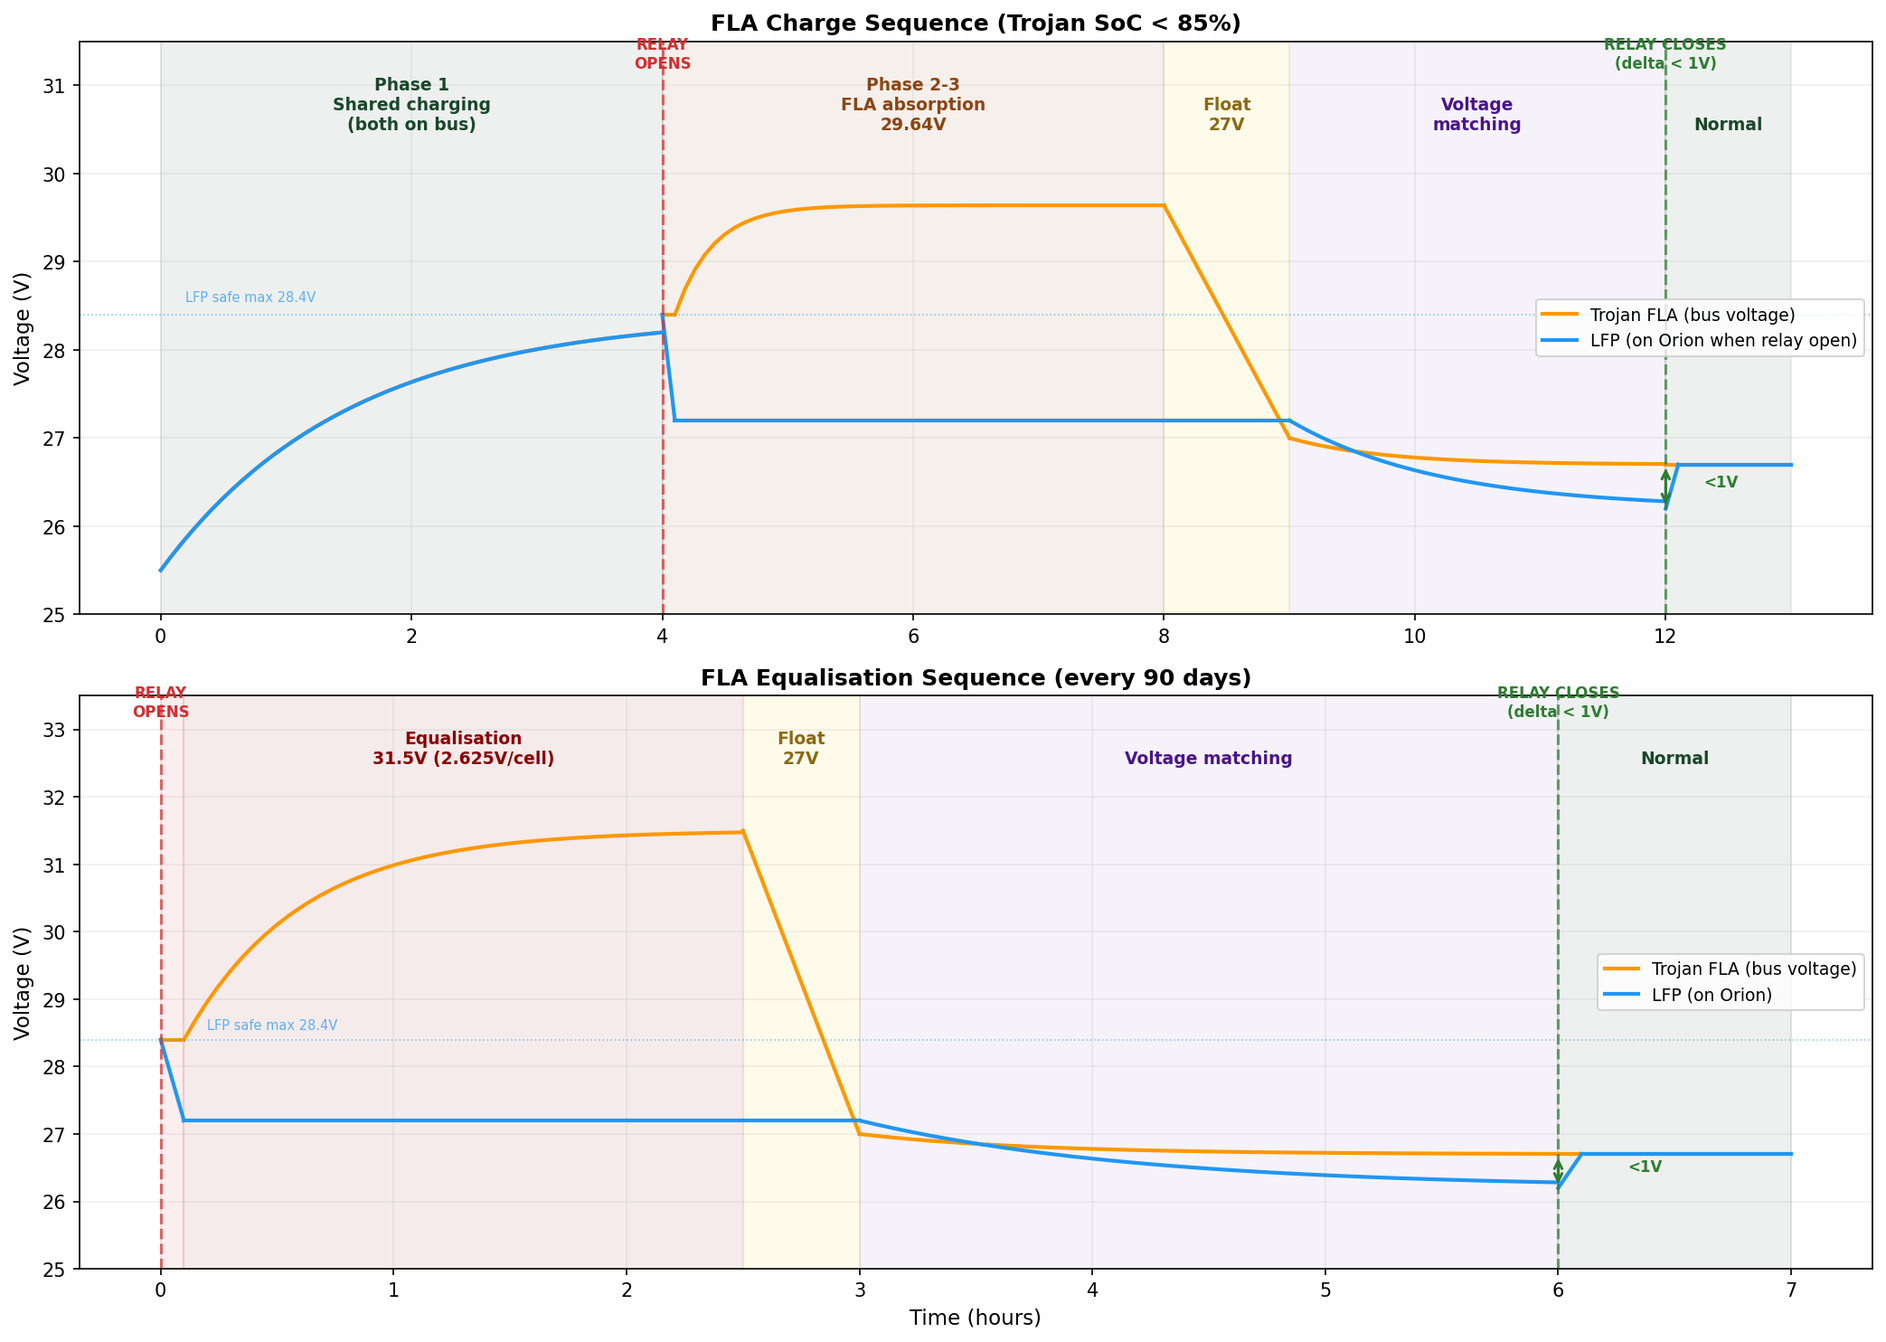
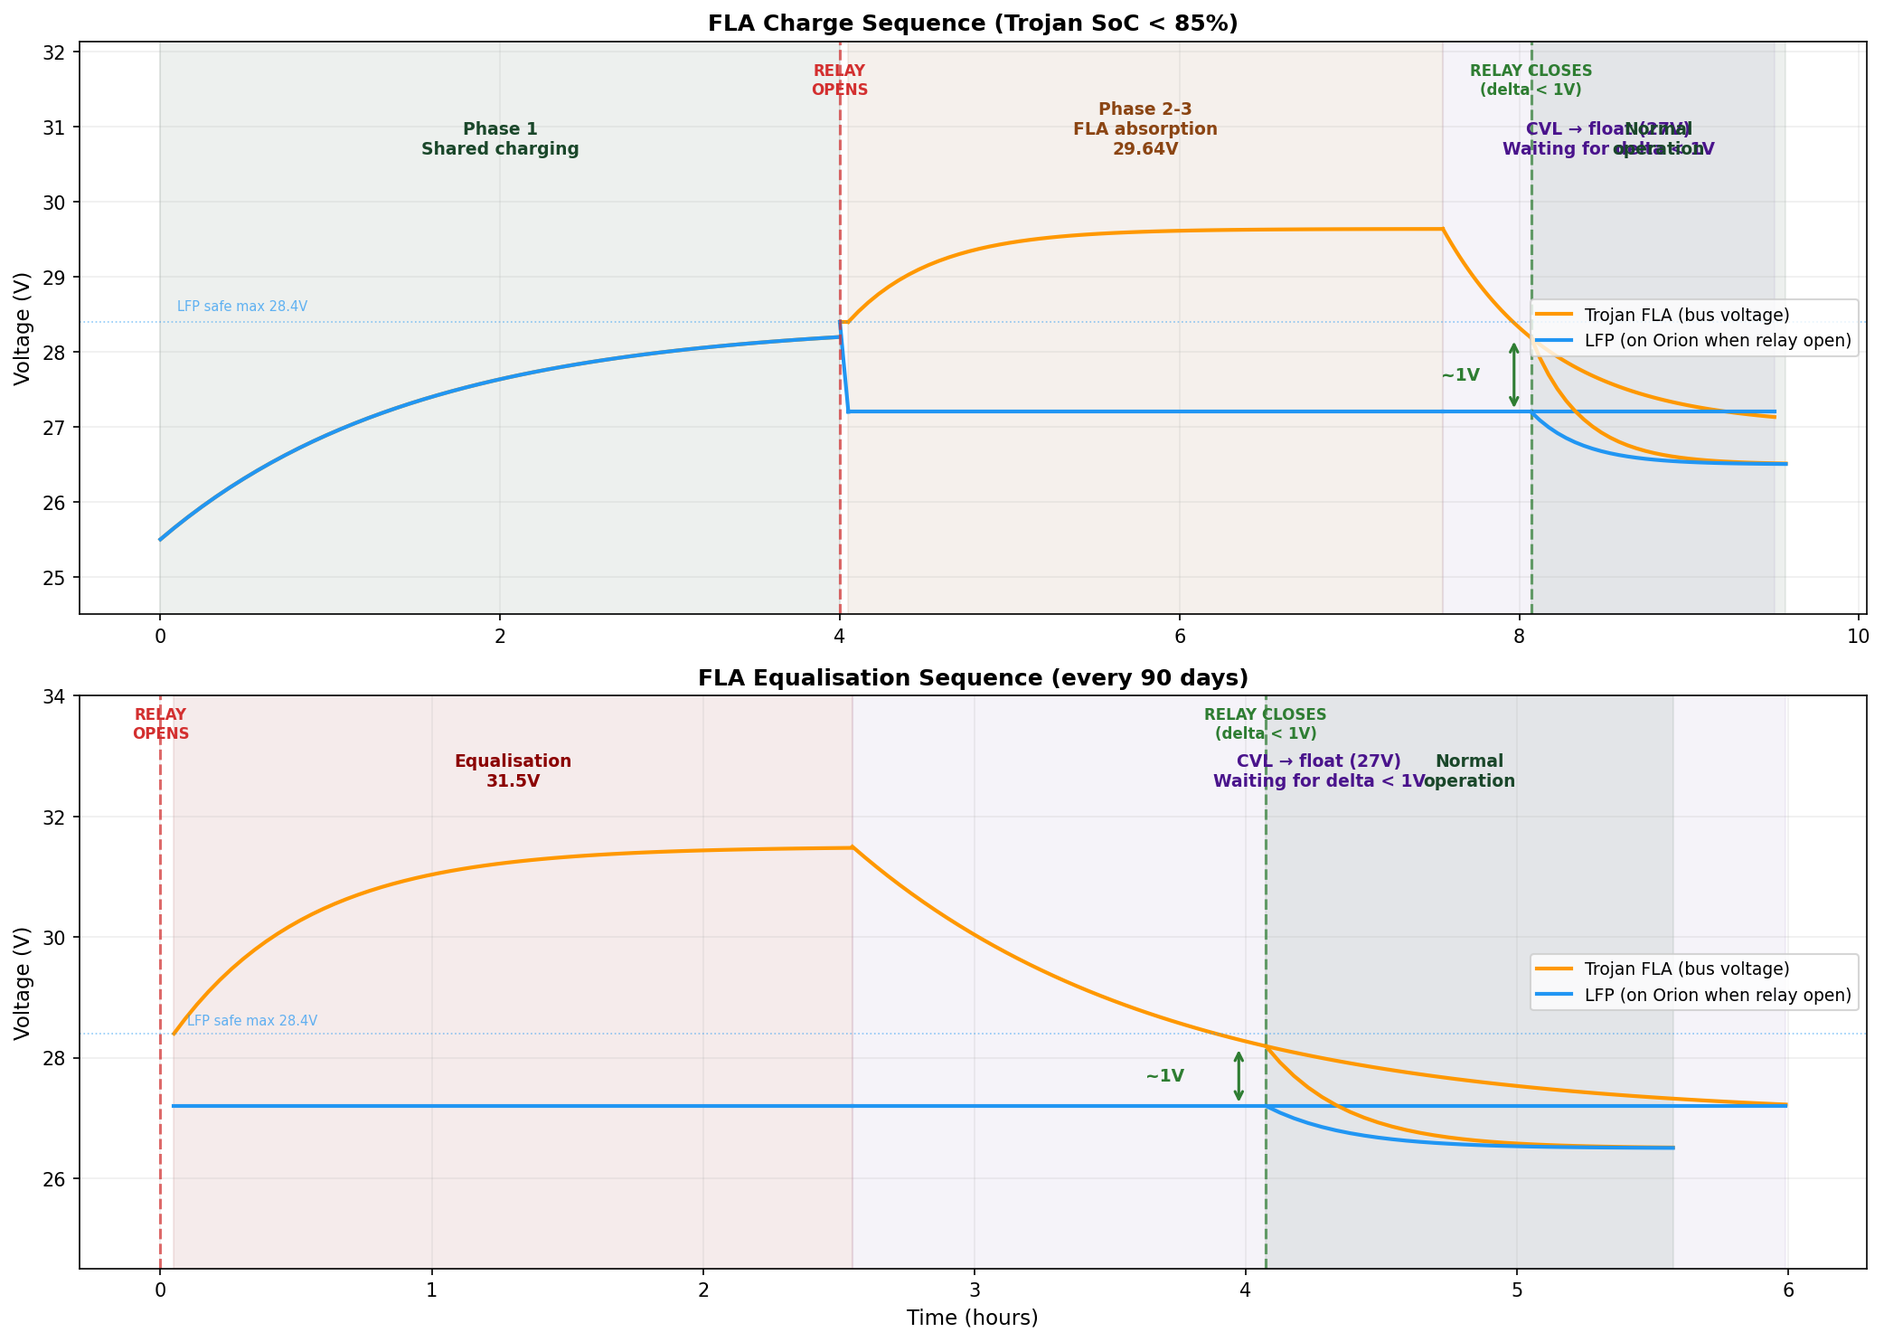
docs: fix charge sequence — float+matching is one phase, relay at delta<1V
Float reduction and voltage matching are one phase in the code
(wait_for_match sets CVL to float then checks delta every 30s).
Relay closes when Trojan drops to within 1V of LFP on its way down,
not after full convergence. LFP stays steady on Orion throughout.

diff --git a/docs/generate_diagrams.py b/docs/generate_diagrams.py
@@ -2,17 +2,15 @@
 """Generate voltage profile diagrams for the hybrid LFP+FLA system."""
 
 import matplotlib.pyplot as plt
-import matplotlib.patches as mpatches
 import numpy as np
 import os
 
 OUT_DIR = os.path.dirname(__file__)
 
 # --- Trojan L16H-AC OCV vs SoC (per cell, from Trojan SoC table) ---
-# Standard flooded lead-acid specific gravity / OCV relationship
-TROJAN_SOC =  [0,    10,   20,   30,   40,   50,   60,   70,   80,   90,   100]
+TROJAN_SOC =  [0,     10,    20,    30,    40,    50,    60,    70,    80,    90,    100]
 TROJAN_CELL = [1.895, 1.918, 1.943, 1.969, 1.993, 2.017, 2.040, 2.062, 2.083, 2.103, 2.122]
-FLA_CELLS = 12  # 4x 6V batteries, 3 cells each
+FLA_CELLS = 12
 
 # --- EVE MB31 LFP OCV vs SoC (per cell, typical LiFePO4 curve) ---
 LFP_SOC =  [0,    5,    10,   20,   30,   40,   50,   60,   70,   80,   90,   95,   100]
@@ -25,33 +23,28 @@ def voltage_profile():
 
     fig, ax = plt.subplots(figsize=(14, 9))
 
-    # Convert to pack voltages
     lfp_soc = np.array(LFP_SOC)
     lfp_pack = np.array(LFP_CELL) * LFP_CELLS
     fla_soc = np.array(TROJAN_SOC)
     fla_pack = np.array(TROJAN_CELL) * FLA_CELLS
 
-    # --- Zone backgrounds ---
-    # LFP-only discharge zone (bus voltage above FLA OCV)
+    # Zone backgrounds
     ax.axhspan(25.5, 28.4, color='#2196F3', alpha=0.06, zorder=0)
-    # FLA takeover zone (bus voltage drops to FLA OCV range)
     ax.axhspan(22.5, 25.5, color='#FF9800', alpha=0.06, zorder=0)
-    # FLA charge voltages (relay must be open)
     ax.axhspan(28.4, 32.5, color='#d32f2f', alpha=0.04, zorder=0)
 
-    # --- Plot OCV curves ---
+    # OCV curves
     ax.plot(lfp_soc, lfp_pack, color='#2196F3', linewidth=2.5, marker='o', markersize=4,
             label='LFP open-circuit voltage (8 cells)', zorder=5)
     ax.plot(fla_soc, fla_pack, color='#FF9800', linewidth=2.5, marker='s', markersize=4,
             label='FLA open-circuit voltage (12 cells, Trojan SoC table)', zorder=5)
 
-    # --- Shaded gap between curves ---
-    # Interpolate FLA to LFP SoC points for fill
+    # Shaded gap
     fla_interp = np.interp(lfp_soc, fla_soc, fla_pack)
     ax.fill_between(lfp_soc, fla_interp, lfp_pack, alpha=0.06, color='#9C27B0',
                     where=lfp_pack > fla_interp, zorder=1)
 
-    # --- Key voltage lines ---
+    # Key voltage lines
     ax.axhline(y=28.4, color='#2196F3', linestyle='--', linewidth=1.2, alpha=0.7)
     ax.annotate('LFP daily charge target  28.4V (3.55V/cell)',
                 xy=(102, 28.4), fontsize=8, color='#2196F3', va='center')
@@ -72,14 +65,12 @@ def voltage_profile():
     ax.annotate('LFP cutoff  22.4V (2.80V/cell)',
                 xy=(102, 22.4), fontsize=8, color='#2196F3', alpha=0.7, va='center')
 
-    # --- FLA 100% OCV reference ---
-    fla_100_v = TROJAN_CELL[-1] * FLA_CELLS  # 25.46V
+    fla_100_v = TROJAN_CELL[-1] * FLA_CELLS
     ax.axhline(y=fla_100_v, color='#FF9800', linestyle=':', linewidth=0.8, alpha=0.5)
     ax.annotate(f'FLA 100% OCV  {fla_100_v:.1f}V (2.122V/cell)',
                 xy=(102, fla_100_v), fontsize=8, color='#FF9800', alpha=0.8, va='center')
 
-    # --- Crossover annotation ---
-    # Find where LFP curve crosses FLA 100% OCV
+    # Crossover annotation
     lfp_fine = np.linspace(0, 100, 500)
     lfp_pack_fine = np.interp(lfp_fine, lfp_soc, lfp_pack)
     cross_idx = np.argmin(np.abs(lfp_pack_fine - fla_100_v))
@@ -92,7 +83,7 @@ def voltage_profile():
                 arrowprops=dict(arrowstyle='->', color='#e65100', lw=1.5),
                 ha='center', zorder=10)
 
-    # --- Zone labels ---
+    # Zone labels
     ax.text(60, 27.2,
             'LFP handles all cycling\nFLA stays at ~100% SoC (float charged by LFP)',
             ha='center', va='center', fontsize=10, color='#1565C0', fontweight='bold', alpha=0.7,
@@ -108,7 +99,6 @@ def voltage_profile():
             ha='center', va='center', fontsize=10, color='#c62828', fontweight='bold', alpha=0.6,
             bbox=dict(boxstyle='round,pad=0.3', facecolor='white', alpha=0.8, edgecolor='none'))
 
-    # --- Formatting ---
     ax.set_xlim(-2, 140)
     ax.set_ylim(21.5, 32.5)
     ax.set_xlabel('State of Charge (%)', fontsize=11)
@@ -126,152 +116,143 @@ def voltage_profile():
     print(f'Saved: {path}')
 
 
+def _plot_sequence(ax, title, high_voltage, high_label,
+                   t_charge_end, t_relay_open=0):
+    """Plot a charge/EQ sequence on a single axes.
+
+    The float reduction + voltage matching is ONE phase in the code:
+    wait_for_match() sets CVL to float, then checks delta every 30s.
+    Relay closes the moment delta < 1V as Trojan drops from high voltage.
+    """
+    orion_v = 27.2  # Orion holds LFP at ~27.2V
+    float_v = 27.0
+    settle_v = 26.5  # Resting voltage after reconnect
+
+    # How long for Trojan to drop from high voltage to within 1V of LFP?
+    # Bigger drop = longer. Rough model: exponential decay.
+    drop_needed = high_voltage - (orion_v + 1.0)  # Drop until delta < 1V
+    # Time for Trojan to cross the 1V threshold (relative to float start)
+    match_time = 0.8 * (high_voltage - orion_v)  # ~2h for absorption, ~3.5h for EQ
+
+    t_total = t_relay_open + t_charge_end + match_time + 1.5  # +1.5h for settle after reconnect
+
+    # --- Charging phase (relay already open) ---
+    if t_relay_open > 0:
+        # Phase 1: shared charging (charge service only)
+        t_p1 = np.linspace(0, t_relay_open, 50)
+        v_bus_p1 = 25.5 + (28.4 - 25.5) * (1 - np.exp(-t_p1 / 1.5))
+        ax.plot(t_p1, v_bus_p1, color='#FF9800', linewidth=2)
+        ax.plot(t_p1, v_bus_p1, color='#2196F3', linewidth=2)  # Same — both on bus
+        ax.axvspan(0, t_relay_open, color='#1a472a', alpha=0.08)
+        ax.text(t_relay_open / 2, high_voltage + 1.0, 'Phase 1\nShared charging',
+                ha='center', fontsize=9, color='#1a472a', fontweight='bold')
+        # Disconnect
+        ax.plot([t_relay_open, t_relay_open + 0.05], [28.4, 28.4], color='#FF9800', linewidth=2)
+        ax.plot([t_relay_open, t_relay_open + 0.05], [28.4, orion_v], color='#2196F3', linewidth=2)
+
+    t_charge_start = t_relay_open + 0.05
+    t_charge_abs = t_charge_start + t_charge_end
+
+    # --- High-voltage charging (absorption or EQ) ---
+    t_hv = np.linspace(t_charge_start, t_charge_abs, 60)
+    v_trojan_hv = 28.4 + (high_voltage - 28.4) * (1 - np.exp(-(t_hv - t_charge_start) / 0.5))
+    v_lfp_hv = orion_v * np.ones(60)
+
+    ax.plot(t_hv, v_trojan_hv, color='#FF9800', linewidth=2)
+    ax.plot(t_hv, v_lfp_hv, color='#2196F3', linewidth=2)
+    ax.axvspan(t_charge_start, t_charge_abs, color='#8B0000' if high_voltage > 30 else '#8B4513',
+               alpha=0.08)
+    ax.text((t_charge_start + t_charge_abs) / 2, high_voltage + 1.0,
+            f'{high_label}\n{high_voltage}V',
+            ha='center', fontsize=9,
+            color='#8B0000' if high_voltage > 30 else '#8B4513', fontweight='bold')
+
+    # --- Float + voltage matching (ONE phase in code) ---
+    # CVL drops to float, Trojan voltage decays from high_voltage toward float
+    # Relay closes when Trojan drops to within 1V of LFP (orion_v)
+    t_match = np.linspace(t_charge_abs, t_charge_abs + match_time, 80)
+    # Trojan: exponential decay from high_voltage toward float_v
+    tau = match_time / 3  # Time constant
+    v_trojan_match = float_v + (high_voltage - float_v) * np.exp(-(t_match - t_charge_abs) / tau)
+    v_lfp_match = orion_v * np.ones(80)
+
+    ax.plot(t_match, v_trojan_match, color='#FF9800', linewidth=2)
+    ax.plot(t_match, v_lfp_match, color='#2196F3', linewidth=2)
+    ax.axvspan(t_charge_abs, t_charge_abs + match_time, color='#4a148c', alpha=0.05)
+    ax.text((t_charge_abs + t_charge_abs + match_time) / 2, high_voltage + 1.0,
+            'CVL → float (27V)\nWaiting for delta < 1V',
+            ha='center', fontsize=9, color='#4a148c', fontweight='bold')
+
+    # Find where Trojan crosses orion_v + 1.0 (delta = 1V threshold)
+    threshold = orion_v + 1.0  # 28.2V
+    cross_idx = np.argmin(np.abs(v_trojan_match - threshold))
+    t_cross = t_match[cross_idx]
+    v_cross = v_trojan_match[cross_idx]
+
+    # --- Relay closes at delta < 1V ---
+    t_reconnect = t_cross
+    ax.axvline(x=t_reconnect, color='#2e7d32', linestyle='--', linewidth=1.5, alpha=0.7)
+    ax.text(t_reconnect, high_voltage + 1.8, 'RELAY CLOSES\n(delta < 1V)',
+            ha='center', fontsize=8, color='#2e7d32', fontweight='bold')
+
+    # Delta annotation at reconnect point
+    ax.annotate('', xy=(t_reconnect - 0.1, v_cross),
+                xytext=(t_reconnect - 0.1, orion_v),
+                arrowprops=dict(arrowstyle='<->', color='#2e7d32', lw=1.5))
+    ax.text(t_reconnect - 0.3, (v_cross + orion_v) / 2, '~1V',
+            fontsize=9, color='#2e7d32', fontweight='bold', ha='right', va='center')
+
+    # After reconnect: both settle to same resting voltage
+    t_settle = np.linspace(t_reconnect, t_reconnect + 1.5, 30)
+    v_trojan_settle = v_cross + (settle_v - v_cross) * (1 - np.exp(-(t_settle - t_reconnect) / 0.3))
+    v_lfp_settle = orion_v + (settle_v - orion_v) * (1 - np.exp(-(t_settle - t_reconnect) / 0.3))
+
+    ax.plot(t_settle, v_trojan_settle, color='#FF9800', linewidth=2)
+    ax.plot(t_settle, v_lfp_settle, color='#2196F3', linewidth=2)
+    ax.axvspan(t_reconnect, t_reconnect + 1.5, color='#1a472a', alpha=0.08)
+    ax.text(t_reconnect + 0.75, high_voltage + 1.0, 'Normal\noperation',
+            ha='center', fontsize=9, color='#1a472a', fontweight='bold')
+
+    # Relay open marker
+    ax.axvline(x=t_relay_open, color='#d32f2f', linestyle='--', linewidth=1.5, alpha=0.7)
+    ax.text(t_relay_open, high_voltage + 1.8, 'RELAY\nOPENS',
+            ha='center', fontsize=8, color='#d32f2f', fontweight='bold')
+
+    # LFP safe line
+    ax.axhline(y=28.4, color='#2196F3', linestyle=':', linewidth=0.8, alpha=0.5)
+    ax.annotate('LFP safe max 28.4V', xy=(0.1, 28.55), fontsize=7, color='#2196F3', alpha=0.7)
+
+    # Legend
+    ax.plot([], [], color='#FF9800', linewidth=2, label='Trojan FLA (bus voltage)')
+    ax.plot([], [], color='#2196F3', linewidth=2, label='LFP (on Orion when relay open)')
+
+    ax.set_ylabel('Voltage (V)', fontsize=11)
+    ax.set_ylim(24.5, high_voltage + 2.5)
+    ax.set_title(title, fontsize=12, fontweight='bold')
+    ax.legend(loc='center right', fontsize=9)
+    ax.grid(True, alpha=0.2)
+
+
 def charge_sequence():
-    """Diagram: FLA charge/EQ sequence showing voltage over time."""
+    """Diagram: FLA charge and EQ sequences showing voltage over time."""
 
-    fig, (ax1, ax2) = plt.subplots(2, 1, figsize=(14, 10), sharex=False)
+    fig, (ax1, ax2) = plt.subplots(2, 1, figsize=(14, 10))
 
-    # --- FLA Charge Sequence (top) ---
-    t_phase1 = np.linspace(0, 4, 50)
-    t_disconnect = np.array([4, 4.1])
-    t_phase23 = np.linspace(4.1, 8, 50)
-    t_float = np.linspace(8, 9, 20)
-    t_match = np.linspace(9, 12, 40)
-    t_reconnect = np.array([12, 12.1])
-    t_normal = np.linspace(12.1, 13, 10)
+    _plot_sequence(ax1,
+                   title='FLA Charge Sequence (Trojan SoC < 85%)',
+                   high_voltage=29.64,
+                   high_label='Phase 2-3\nFLA absorption',
+                   t_charge_end=3.5,
+                   t_relay_open=4)  # Phase 1 shared charging first
 
-    # Trojan voltage (bus voltage during charge)
-    trojan_p1 = 25.5 + (28.4 - 25.5) * (1 - np.exp(-t_phase1 / 1.5))
-    trojan_disc = np.array([28.4, 28.4])
-    trojan_p23 = 28.4 + (29.64 - 28.4) * (1 - np.exp(-(t_phase23 - 4.1) / 0.3))
-    trojan_float = 29.64 - (29.64 - 27.0) * np.linspace(0, 1, 20)
-    trojan_match = 27.0 - 0.3 * (1 - np.exp(-np.linspace(0, 4, 40)))  # Settling toward ~26.7
-    trojan_recon = np.array([26.7, 26.7])
-    trojan_norm = 26.7 * np.ones(10)
-
-    # LFP voltage
-    lfp_p1 = trojan_p1  # Same as bus (parallel)
-    lfp_disc = np.array([28.4, 27.2])  # Drops to Orion voltage
-    lfp_p23 = 27.2 * np.ones(50)  # Orion holds ~27.2V steady
-    lfp_float = 27.2 * np.ones(20)  # LFP stays on Orion, voltage steady
-    lfp_match = 27.2 - 1.0 * (1 - np.exp(-np.linspace(0, 2.5, 40)))  # Orion off, LFP settles
-    lfp_recon = np.array([26.2, 26.7])  # Jumps to bus voltage on reconnect
-    lfp_norm = 26.7 * np.ones(10)
-
-    for t, v in [(t_phase1, trojan_p1), (t_disconnect, trojan_disc), (t_phase23, trojan_p23),
-                 (t_float, trojan_float), (t_match, trojan_match), (t_reconnect, trojan_recon),
-                 (t_normal, trojan_norm)]:
-        ax1.plot(t, v, color='#FF9800', linewidth=2)
-    ax1.plot([], [], color='#FF9800', linewidth=2, label='Trojan FLA (bus voltage)')
-
-    for t, v in [(t_phase1, lfp_p1), (t_disconnect, lfp_disc), (t_phase23, lfp_p23),
-                 (t_float, lfp_float), (t_match, lfp_match), (t_reconnect, lfp_recon),
-                 (t_normal, lfp_norm)]:
-        ax1.plot(t, v, color='#2196F3', linewidth=2)
-    ax1.plot([], [], color='#2196F3', linewidth=2, label='LFP (on Orion when relay open)')
-
-    # Phase backgrounds
-    ax1.axvspan(0, 4, color='#1a472a', alpha=0.08)
-    ax1.axvspan(4, 8, color='#8B4513', alpha=0.08)
-    ax1.axvspan(8, 9, color='#FFD700', alpha=0.08)
-    ax1.axvspan(9, 12, color='#4a148c', alpha=0.05)
-    ax1.axvspan(12, 13, color='#1a472a', alpha=0.08)
-
-    ax1.text(2, 30.5, 'Phase 1\nShared charging\n(both on bus)', ha='center', fontsize=9,
-             color='#1a472a', fontweight='bold')
-    ax1.text(6, 30.5, 'Phase 2-3\nFLA absorption\n29.64V', ha='center', fontsize=9,
-             color='#8B4513', fontweight='bold')
-    ax1.text(8.5, 30.5, 'Float\n27V', ha='center', fontsize=9, color='#8B6914', fontweight='bold')
-    ax1.text(10.5, 30.5, 'Voltage\nmatching', ha='center', fontsize=9, color='#4a148c', fontweight='bold')
-    ax1.text(12.5, 30.5, 'Normal', ha='center', fontsize=9, color='#1a472a', fontweight='bold')
-
-    ax1.axvline(x=4, color='#d32f2f', linestyle='--', linewidth=1.5, alpha=0.7)
-    ax1.text(4, 31.2, 'RELAY\nOPENS', ha='center', fontsize=8, color='#d32f2f', fontweight='bold')
-    ax1.axvline(x=12, color='#2e7d32', linestyle='--', linewidth=1.5, alpha=0.7)
-    ax1.text(12, 31.2, 'RELAY CLOSES\n(delta < 1V)', ha='center', fontsize=8,
-             color='#2e7d32', fontweight='bold')
-
-    # Show delta < 1V at reconnect
-    ax1.annotate('', xy=(12, 26.7), xytext=(12, 26.2),
-                 arrowprops=dict(arrowstyle='<->', color='#2e7d32', lw=1.5))
-    ax1.text(12.3, 26.45, '<1V', fontsize=8, color='#2e7d32', fontweight='bold')
-
-    ax1.axhline(y=28.4, color='#2196F3', linestyle=':', linewidth=0.8, alpha=0.5)
-    ax1.annotate('LFP safe max 28.4V', xy=(0.2, 28.55), fontsize=7, color='#2196F3', alpha=0.7)
-
-    ax1.set_ylabel('Voltage (V)', fontsize=11)
-    ax1.set_ylim(25, 31.5)
-    ax1.set_title('FLA Charge Sequence (Trojan SoC < 85%)', fontsize=12, fontweight='bold')
-    ax1.legend(loc='center right', fontsize=9)
-    ax1.grid(True, alpha=0.2)
-
-    # --- FLA Equalisation Sequence (bottom) ---
-    t_eq_start = np.array([0, 0.1])
-    t_eq = np.linspace(0.1, 2.5, 50)
-    t_eq_float = np.linspace(2.5, 3, 20)
-    t_eq_match = np.linspace(3, 6, 40)
-    t_eq_recon = np.array([6, 6.1])
-    t_eq_norm = np.linspace(6.1, 7, 10)
-
-    trojan_start = np.array([28.4, 28.4])
-    trojan_eq = 28.4 + (31.5 - 28.4) * (1 - np.exp(-(t_eq - 0.1) / 0.5))
-    trojan_eq_float = 31.5 - (31.5 - 27.0) * np.linspace(0, 1, 20)
-    trojan_eq_match = 27.0 - 0.3 * (1 - np.exp(-np.linspace(0, 4, 40)))  # Settling toward ~26.7
-    trojan_eq_recon = np.array([26.7, 26.7])
-    trojan_eq_norm = 26.7 * np.ones(10)
-
-    lfp_start = np.array([28.4, 27.2])
-    lfp_eq = 27.2 * np.ones(50)  # Orion holds steady
-    lfp_eq_float = 27.2 * np.ones(20)  # Still on Orion, steady
-    lfp_eq_match = 27.2 - 1.0 * (1 - np.exp(-np.linspace(0, 2.5, 40)))  # Orion off, settling
-    lfp_eq_recon = np.array([26.2, 26.7])  # Jumps to bus on reconnect
-    lfp_eq_norm = 26.7 * np.ones(10)
-
-    for t, v in [(t_eq_start, trojan_start), (t_eq, trojan_eq), (t_eq_float, trojan_eq_float),
-                 (t_eq_match, trojan_eq_match), (t_eq_recon, trojan_eq_recon),
-                 (t_eq_norm, trojan_eq_norm)]:
-        ax2.plot(t, v, color='#FF9800', linewidth=2)
-    ax2.plot([], [], color='#FF9800', linewidth=2, label='Trojan FLA (bus voltage)')
-
-    for t, v in [(t_eq_start, lfp_start), (t_eq, lfp_eq), (t_eq_float, lfp_eq_float),
-                 (t_eq_match, lfp_eq_match), (t_eq_recon, lfp_eq_recon),
-                 (t_eq_norm, lfp_eq_norm)]:
-        ax2.plot(t, v, color='#2196F3', linewidth=2)
-    ax2.plot([], [], color='#2196F3', linewidth=2, label='LFP (on Orion)')
-
-    ax2.axvspan(0, 0.1, color='#d32f2f', alpha=0.08)
-    ax2.axvspan(0.1, 2.5, color='#8B0000', alpha=0.08)
-    ax2.axvspan(2.5, 3, color='#FFD700', alpha=0.08)
-    ax2.axvspan(3, 6, color='#4a148c', alpha=0.05)
-    ax2.axvspan(6, 7, color='#1a472a', alpha=0.08)
-
-    ax2.text(1.3, 32.5, 'Equalisation\n31.5V (2.625V/cell)', ha='center', fontsize=9,
-             color='#8B0000', fontweight='bold')
-    ax2.text(2.75, 32.5, 'Float\n27V', ha='center', fontsize=9, color='#8B6914', fontweight='bold')
-    ax2.text(4.5, 32.5, 'Voltage matching', ha='center', fontsize=9,
-             color='#4a148c', fontweight='bold')
-    ax2.text(6.5, 32.5, 'Normal', ha='center', fontsize=9, color='#1a472a', fontweight='bold')
-
-    ax2.axvline(x=0, color='#d32f2f', linestyle='--', linewidth=1.5, alpha=0.7)
-    ax2.text(0, 33.2, 'RELAY\nOPENS', ha='center', fontsize=8, color='#d32f2f', fontweight='bold')
-    ax2.axvline(x=6, color='#2e7d32', linestyle='--', linewidth=1.5, alpha=0.7)
-    ax2.text(6, 33.2, 'RELAY CLOSES\n(delta < 1V)', ha='center', fontsize=8,
-             color='#2e7d32', fontweight='bold')
-
-    # Show delta < 1V at reconnect
-    ax2.annotate('', xy=(6, 26.7), xytext=(6, 26.2),
-                 arrowprops=dict(arrowstyle='<->', color='#2e7d32', lw=1.5))
-    ax2.text(6.3, 26.45, '<1V', fontsize=8, color='#2e7d32', fontweight='bold')
-
-    ax2.axhline(y=28.4, color='#2196F3', linestyle=':', linewidth=0.8, alpha=0.5)
-    ax2.annotate('LFP safe max 28.4V', xy=(0.2, 28.55), fontsize=7, color='#2196F3', alpha=0.7)
+    _plot_sequence(ax2,
+                   title='FLA Equalisation Sequence (every 90 days)',
+                   high_voltage=31.5,
+                   high_label='Equalisation',
+                   t_charge_end=2.5,
+                   t_relay_open=0)  # Relay opens immediately
 
     ax2.set_xlabel('Time (hours)', fontsize=11)
-    ax2.set_ylabel('Voltage (V)', fontsize=11)
-    ax2.set_ylim(25, 33.5)
-    ax2.set_title('FLA Equalisation Sequence (every 90 days)', fontsize=12, fontweight='bold')
-    ax2.legend(loc='center right', fontsize=9)
-    ax2.grid(True, alpha=0.2)
 
     plt.tight_layout()
     path = os.path.join(OUT_DIR, 'charge-sequences.png')
